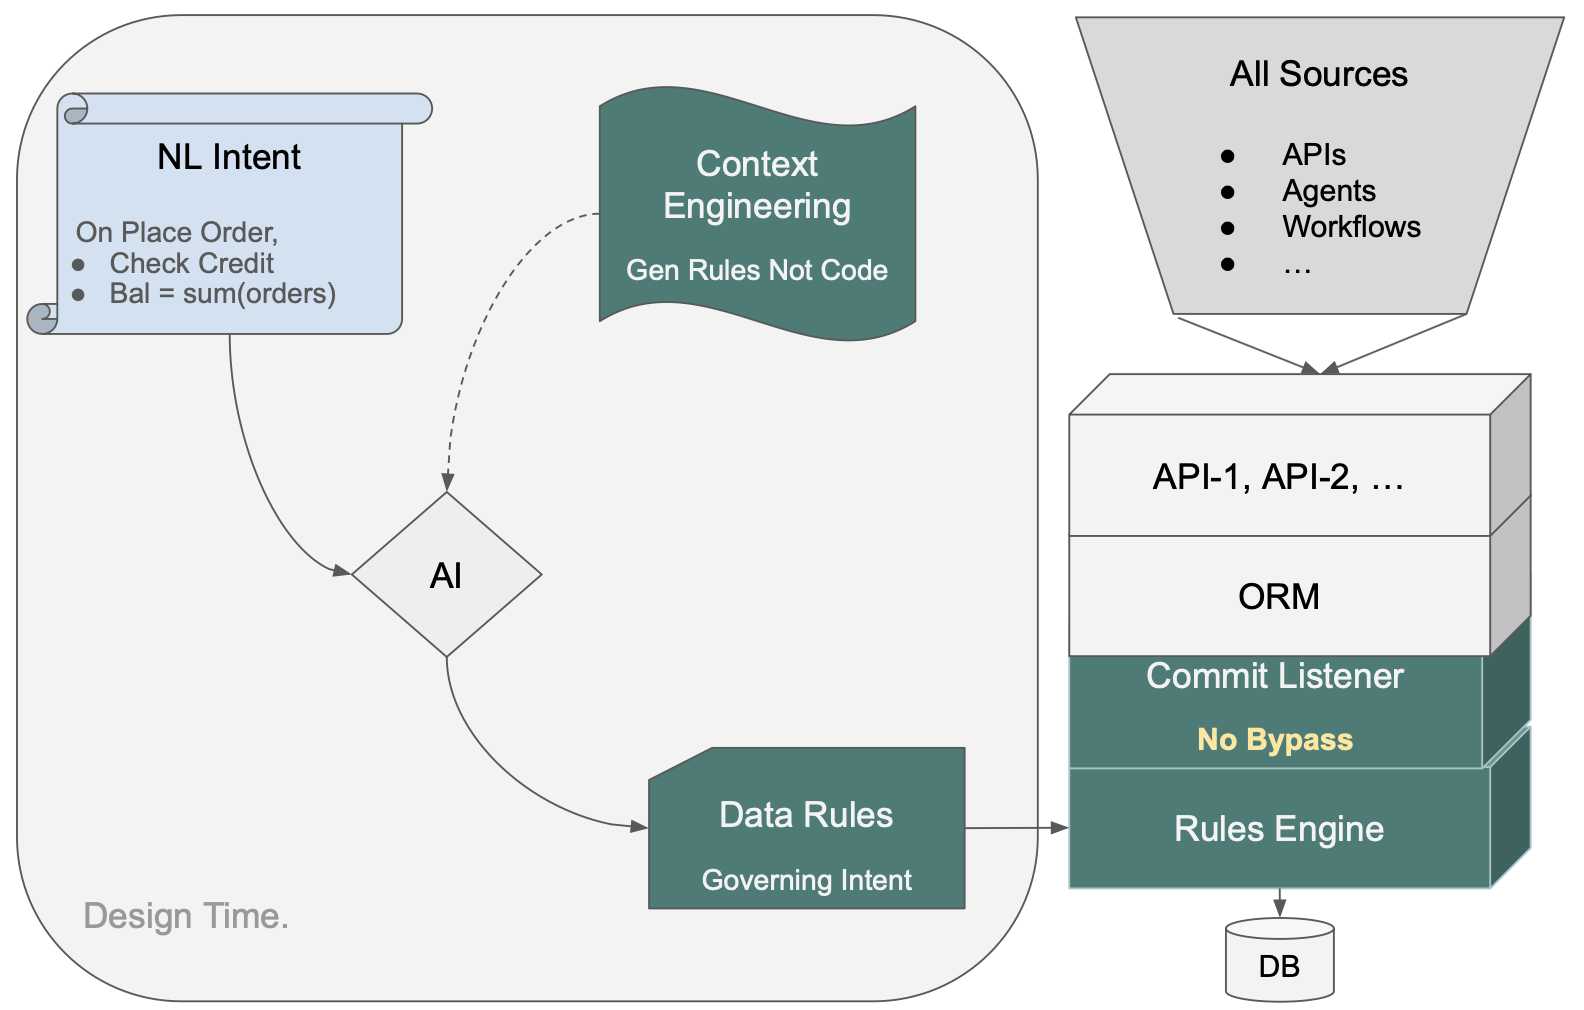
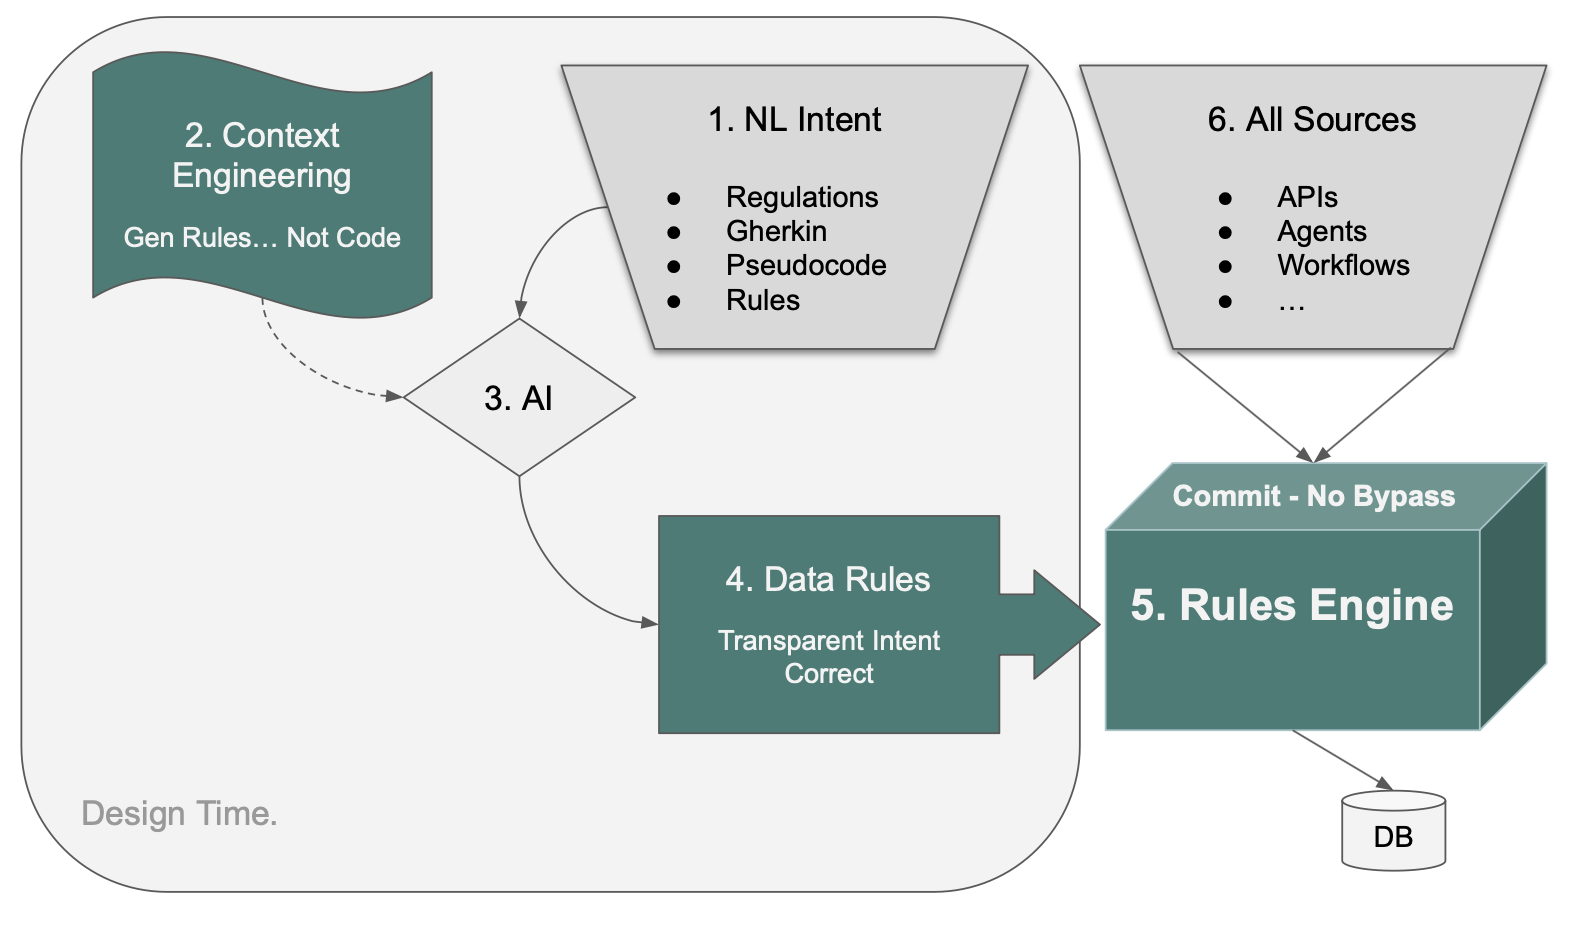
w article

diff --git a/docs/Tech-Gov-By-Arch.md b/docs/Tech-Gov-By-Arch.md
@@ -1,0 +1,202 @@
+# Governance by Architecture
+
+### Why the Right Answer Finally Became Reachable
+
+*By Wynford Reese and Val Huber*
+
+---
+
+I have spent a long career building and operating enterprise systems, and I have spent most of it watching governance-by-discipline fail.
+
+Not loudly. Routinely. Audit findings on systems that had no AI involvement at all — traditional, hand-coded systems where rules were enforced on some paths but not others. Different teams, different services, different generations of code, all making honest decisions about where the check belonged. The exposure on a single engagement I have personal experience with reached eight figures.
+
+That is governance not working — at scale, at cost, on systems that were supposed to be the well-understood ones.
+
+The architectural answer has been understood for a long time. Stop scattering enforcement across application paths; put rules at the commit point, where every transaction must pass through. Triggers tried it decades ago and didn't settle the question, for reasons I'll come to. Declarative rules engines tried it more directly, and got the form right, but required analysts to learn to think in invariants — and that learning curve kept enterprise adoption out of reach for thirty years.
+
+What changed recently is that the answer became reachable. AI bridged the gap that kept it out of reach.
+
+This piece is about why this matters now, why the earlier attempts didn't settle it, and what the architecture actually produces.
+
+---
+
+When something looks like a real architectural answer, I write down a specification — Given, When, Then — and see if the structure holds. Here is the one I wrote for GenAI-Logic:
+
+```gherkin
+Feature: Governed Agentic AI
+
+  Scenario: Enforce business rules across every transaction source
+
+    Given GenAI-Logic, which allows Enterprise IT to enforce
+          Agentic AI governance by architecture, not on
+          development team discipline
+
+    When Context Engineering turns requirements into declarative
+         Data Rules attached to the data model
+
+    Then a Commit Listener and Rule Engine automatically enforce
+         them on every ORM commit, regardless of source —
+         API, agent, or message
+```
+
+The structure held. The rest of this piece is the unpacking.
+
+## The architecture, in one frame
+
+![Logic Architecture](images/architecture/logic-architecture-exec.png)
+
+Two funnels meeting in the middle.
+
+On the left, **design time**. ① **NL Intent** is whatever form the requirement takes when an analyst, a regulator, or a product owner writes it down — regulations, Gherkin, pseudocode, rules-as-invariants. ③ **AI** translates that intent, directed by ② **Context Engineering**, into ④ **Data Rules**.
+
+Data Rules are declarative statements attached to the data model. The closest analogy is spreadsheet formulas: a cell that says `= SUM(B2:B10)` does not need to know who or what changed B5. It recomputes automatically. Data Rules behave the same way — when underlying data changes, the rules that depend on that data recompute, regardless of what triggered the change. They are path-independent.
+
+On the right, **runtime**. ⑥ **All Sources** — APIs, agents, workflows, anything that writes to the database — funnel through one point. ⑤ The **Rules Engine** sits at the **Commit** boundary and enforces the Data Rules on every transaction, with no bypass.
+
+The two funnels meet at the rules. Whatever form a requirement starts in, it ends as Data Rules. Whatever path a transaction takes, it ends at the Rules Engine. One enforcement point. One compilation target. That is the architecture.
+
+The rest of the piece walks the diagram.
+
+## What agentic AI changed
+
+It did not introduce the governance problem. It made the cost of the problem one IT can no longer absorb quietly.
+
+Agents now generate code, propose transactions, and write to systems of record at speeds no review cycle can match. Governance models built around developer discipline don't fail loudly. They just stop covering most of what flows past. The audit findings that were already routine in traditional systems now have a faster mechanism producing them, and that mechanism is going to get faster, not slower.
+
+Every enterprise IT leader I talk to recognizes this. Many are hoping that better prompts, better policy, or tighter agent confinement will hold. They will not. The cost has been visible for years; agents just made it impossible to keep absorbing.
+
+## Why two earlier attempts didn't settle this
+
+The architectural answer — rules at ⑤, the commit point — is not new. Two earlier attempts to operationalize it both kept the procedural form of the rules, and that turned out to matter as much as where the rules were located.
+
+**Database triggers.** Triggers got the location right. Code at the commit point cannot be bypassed by code on any path above it. The part they missed is what gets enforced *at* that location. A trigger contains procedural code. Whatever you put inside it has the same path-enumeration problem as the application code you moved it from. If the procedural body of the trigger missed a dependency, the trigger fires reliably and enforces the wrong thing reliably. Putting code at the commit point doesn't help if the code itself can't be reviewed for correctness.
+
+**AI-generated commit code.** A thoughtful reader will ask the modern version of the question: couldn't AI just write the procedural commit-point code automatically? Same enforcement boundary, no human review burden because the AI does the work.
+
+This was tried. From a five-rule specification, AI generated 220 lines of procedural code. Reasonable structure, clean style. When asked about edge cases — *what if the customer assignment changes? what if the product changes?* — it found bugs. Each one a foreign-key change that updated the new parent's balance but left the old parent's balance uncorrected. Silent. No exception. Wrong data persisting to the database.
+
+When asked to explain its own failure, the AI diagnosed itself. Its summary: *"Business logic is not a coding problem. It's a dependency graph problem."* Dependencies in transactional logic, it concluded, are not reliably inferable from procedural control flow.
+
+That diagnosis is not a vendor's claim. It is what the tool that wrote the buggy code said when asked to explain why the code was buggy.
+
+The implication is sharp. The problem with procedural commit-point code is not that there is too much of it to review. It is that it is *wrong*, by the diagnosis of the system that produces it, in ways the review process cannot reliably catch — because no developer enumerates the full dependency graph either.
+
+So the architectural move is not "automate the procedural code." It is to stop generating procedural code at all, and generate something the engine can reason about.
+
+## What changed: AI as translator
+
+The reason this conversation belongs in IT now, and not five years ago, is that AI crossed a specific threshold. It can translate the way analysts naturally describe business logic into the form the engine enforces. That is the work happening at ③ in the diagram, directed by ②.
+
+That sounds modest. It is not. The historical adoption ceiling on declarative systems was that analysts had to learn to phrase requirements as invariants — "balance is the sum of unpaid order totals" rather than "when an order is placed, add the total to the balance." That shift was real, it was difficult, and it kept declarative adoption out of reach inside enterprises for three decades. I saw it slow declarative systems on a major project I built with Versata in that earlier era.
+
+AI removes the barrier. Analysts continue to write the way they naturally write — procedural in form, step by step. AI translates into declarative rules. Here is what that actually looks like.
+
+The analyst writes the requirement the way analysts naturally write requirements:
+
+```gherkin
+Feature: Check Credit
+
+  Scenario: Place an order
+    Given a customer with a credit limit
+    When an order is placed
+    Then copy the price from the product
+    And multiply by quantity to get the item amount
+    And sum item amounts to get the order total
+    And sum unpaid order totals to get the customer balance
+    And reject if balance exceeds the credit limit
+```
+
+Procedural in form. It walks step by step. AI translates it into the declarative rules at ④:
+
+```python
+Rule.copy(derive=Item.unit_price,
+          from_parent=Product.unit_price)
+
+Rule.formula(derive=Item.amount,
+             as_expression=lambda row: row.quantity * row.unit_price)
+
+Rule.sum(derive=Order.amount_total,
+         as_sum_of=Item.amount)
+
+Rule.sum(derive=Customer.balance,
+         as_sum_of=Order.amount_total,
+         where=lambda row: row.date_shipped is None)
+
+Rule.constraint(validate=Customer,
+                as_condition=lambda row: row.balance <= row.credit_limit,
+                error_msg="balance {row.balance} exceeds credit {row.credit_limit}")
+```
+
+Five rules. Standard Python. Open the file in VSCode. Set a breakpoint, step through with the debugger. Check it into git. Deploy in a container. The rules are readable code in a normal Python project, and the engine that executes them is open source — inspectable, forkable, no vendor lock-in for the runtime that does the enforcing.
+
+This is the part that, more than anything else, reduced my skepticism. The five rules above are a rigorous reformulation of the requirement — each rule maps to a clause an analyst wrote. A compliance officer can read them. An auditor can read them. The 220-line procedural version, generated from the same requirement, disperses that intent across handlers, branches, and helper functions. The original requirement is no longer visible in the code; you have to reconstruct it from how the code behaves.
+
+That is the difference, and it is the second move that triggers never had. Location is one half of the architectural argument. *Reviewability* is the other. Together, they are what makes ⑤ an architecture rather than a relocation.
+
+## What else comes out
+
+The rules are the heart of the architecture, but they are not the whole delivery. For an enterprise IT organization, the question that decides adoption is not "how elegant is the rule layer" but "does this fit my reference architecture without exceptions." I have walked the checklist for GenAI-Logic and found nothing I would have to make exceptions for.
+
+Alongside the rules, the same compilation pipeline produces a standard **JSON:API** for every table — pagination, filtering, sorting, optimistic locking, Swagger-documented; **Kafka publish and subscribe** with standard topics, message shapes, and consumer-group semantics; a multi-table **Admin UI** with master/detail and lookups, ready on day one rather than a custom build; a **Behave test suite** generated from the rules, executable in any Python CI pipeline; a **Logic Report** that traces, for each transaction, which rules fired in what order with what before-and-after values, mapped back to the originating requirement; and a **standard Python project** managed in git and deployed as a container.
+
+None of these is a vendor-specific variant of a standard component. They are the standard components, generated from the requirements rather than written by hand. For a senior IT executive, that is the difference between adopting a tool and adopting an exception.
+
+## Two proofs, in different directions
+
+I have seen this work in two domains that come from completely different sides of the requirements pipeline.
+
+**The first** is a customs eligibility system — CLVS rules over a Kafka shipment pipeline with seven tables and 130-plus columns. The inputs were artifacts a business team already owns: a plain-English requirements document, an existing database schema, an XML field-mapping spreadsheet, a sample message. The Executable Requirements workflow compiled those inputs directly into a running, governed system in two days. The estimate for an equivalent build using a traditional Java framework was roughly two engineer-years.
+
+**The second** is a regulatory implementation. The input was not a requirements document at all. It was a citation of a public Canadian regulation — the CBSA Steel Derivative Goods Surtax Order. Here is the actual prompt, with no editing:
+
+```
+Create a fully functional application and database for CBSA Steel
+Derivative Goods Surtax Order PC Number: 2025-0917 on 2025-12-11 and
+annexed Steel Derivative Goods Surtax Order under subsection 53(2) and
+paragraph 79(a) of the Customs Tariff program code 25267A to calculate
+duties and taxes including provincial sales tax or HST where applicable
+when hs codes, country of origin, customs value, and province code and
+ship date >= '2025-12-26' and create runnable ui with examples from
+Germany, US, Japan and China
+```
+
+That dense regulatory citation produced a working application — schema, data, UI, and the duty calculation logic enforced as Data Rules — without a separate requirements pass.
+
+For an enterprise IT executive in a regulated industry, this matters. The most expensive translation chain in compliance is regulation → requirements → specs → code → enforcement → audit. Every step is a defect generator and a cost center. The Surtax example compresses that chain to a single step, with the regulation itself as the source of truth and the running system as the artifact that enforces it.
+
+## What the pipeline accepts
+
+The four bullets inside ① in the diagram are not aspirational. I have personally seen GenAI-Logic accept all of them and produce governed systems:
+
+- **Regulatory text**, as in the Surtax example — public statute, cited by section
+- **Gherkin scenarios**, as my teams already write them and as Behave-style requirements pipelines already capture
+- **Rules stated as invariants**, as a rules-trained analyst would phrase them — *"customer balance is the sum of unpaid order totals"*
+- **Procedural pseudocode**, as analysts naturally write — *"when an order is placed, copy the price from the product, multiply by quantity, sum to the order total..."*
+
+All four end at the same place: ④ Data Rules, attached to the data model, enforced at ⑤ on every path, regardless of source. Governed by architecture.
+
+## Governance at organizational scale
+
+A single governed system is interesting. An organization that makes governed-by-architecture the *norm* — across hundreds of services, dozens of teams, requirements coming in from every direction — is a different argument. It is the argument that matters at the level enterprise IT actually operates.
+
+What makes it possible is that the business side of the requirements pipeline does not change. Analysts continue to produce the artifacts they already produce. Product owners continue to review them. They flow into Jira, into specs, into the same backlogs and the same review cadences. The pipeline already exists in every enterprise. What changes is what comes out the other end.
+
+Without an architecture like this, the same five-rule scenario produces 220 lines of procedural code on one team and 340 on another, each with the path-dependency bugs no developer (and no AI) enumerates exhaustively. Multiply that across every team, every quarter, every new endpoint, and governance reverts to a discipline problem at scale — which is to say, an unsolved problem. The audit findings I described at the top of this piece are exactly this failure mode.
+
+With this architecture, the same input *always* produces declarative rules that are automatically dependency-ordered, automatically enforced at commit, and automatically inherited by every new path — including paths that don't exist yet. The pipeline doesn't change. The output does. Governance becomes pipeline-native, and the cost of governance stops scaling with the size of the portfolio.
+
+That is the property I have been looking for and have not previously found.
+
+## The bottom line
+
+Enterprise IT does not need more processes layered on top of agentic AI. It needs an architecture in which the rules live inside the data model, the enforcement is automatic, and the source of the write is irrelevant to whether the rule applies.
+
+That architecture is **mandatory for agentic AI**, because no review cadence will keep pace with agent-generated transactions. It is also **essential for traditional systems**, because governance-by-discipline was already failing in those systems, at significant cost, well before agents arrived.
+
+The frame the GenAI-Logic team uses for this is *Correct by Construction* — correctness as a property of the architecture, not a property of the team's discipline. After what I have seen, both in audit findings on traditional systems and in the early evidence on agentic ones, that is the right frame.
+
+I have started treating my requirements as the specification the system will run. The architecture takes them from there.
+
+---
+
+*Wynford Reese is a senior enterprise IT executive with a long career building and operating large-scale systems. Val Huber is co-founder and architect of GenAI-Logic, and previously CTO at Versata.*